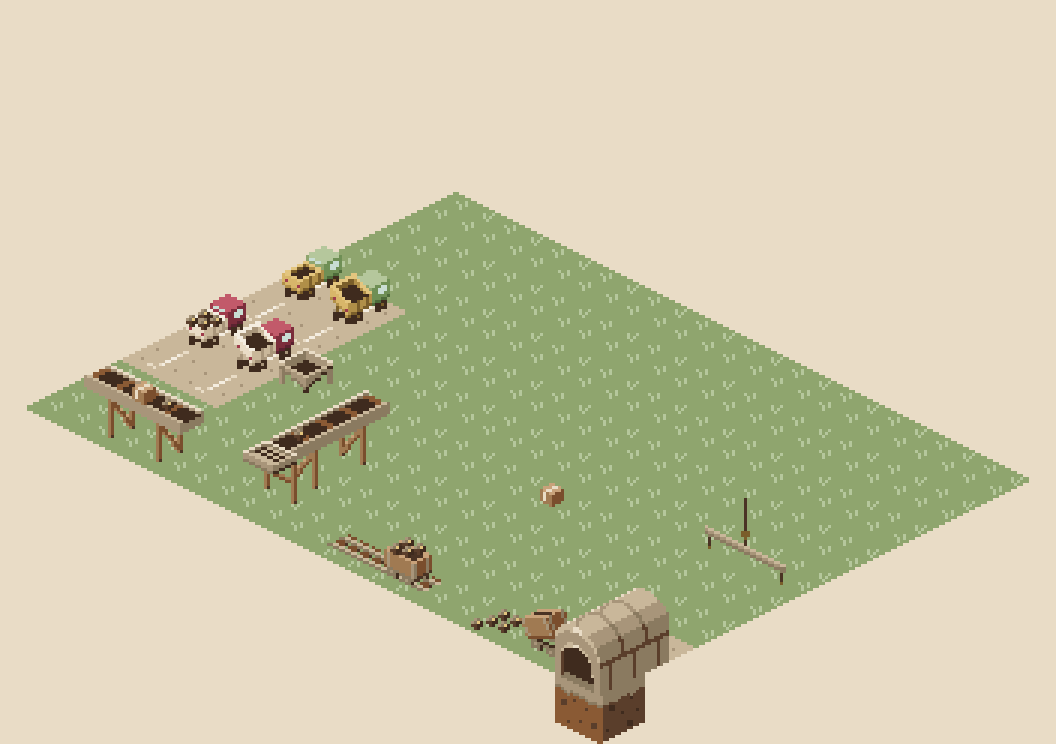
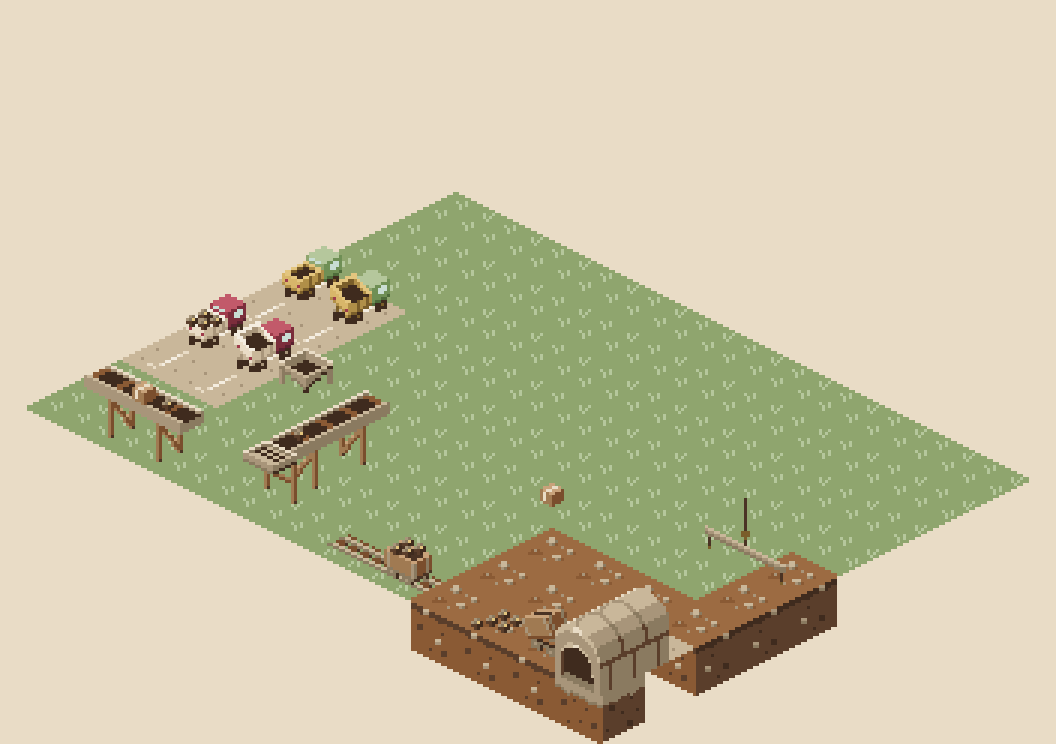
art: rocky mining ground set for the island level up

Changed region(s): [[0.375, 0.711, 0.8125, 0.9583]]

diff --git a/docs/intents/2026-10-island-level-up/art-brief.md b/docs/intents/2026-10-island-level-up/art-brief.md
@@ -93,3 +93,4 @@ A pose is its own object named `<name>-<pose>`, with the same anchor: `extends` 
 - `hopper` is 20×16, anchor [10, 11]: its rim is at z = 6 (the tipped bed's lip) and its spout ends 1 px above the ground at its front corner, so the `processor` takes ore at ground level, with a low inlet at its up-left end under or just down-right of the hopper. The board places it 2 px up-left of a tile centre to meet the road's edge.
 - `parcel` is 8×8 (6×6 vanished on the belt), anchor [4, 7]; on a belt it sits at the belt centre + (0, 2) and paints after the segments it overlaps.
 - `crane-hook` drops in for `crane-box` at px [24, 17] with the same `hf` swing. In frame 0 its sling tips are at (21, 33) and (45, 45) on the island, so a `container` about 26–30 units long hangs with its top centre line from about (21, 34) to (45, 46), and paints before the hook.
+- `block-mine` (with `-left` and `-right`) has a rocky `soil-1` top and the grass cubes' soil body, so a cliff stays one cliff with a different top band. It costs about 2 KB per cube. Don't lay it under `track-mine` (a grass-topped flat block). The wooden `mine-cart` has less contrast on it than on grass: watch that in the scene.
